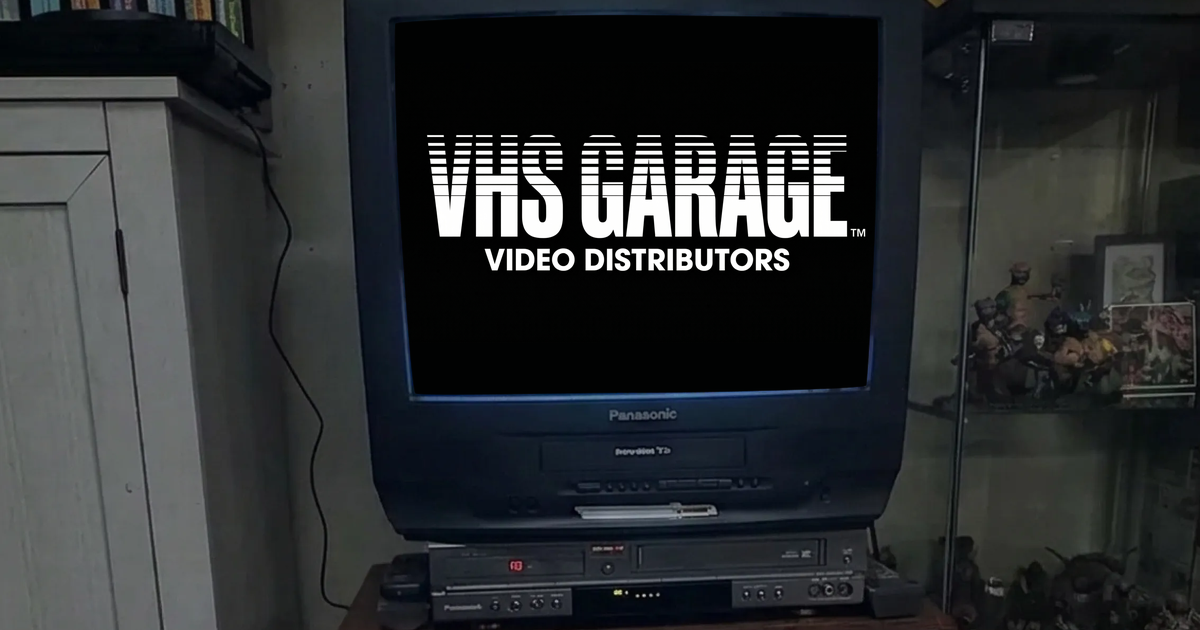
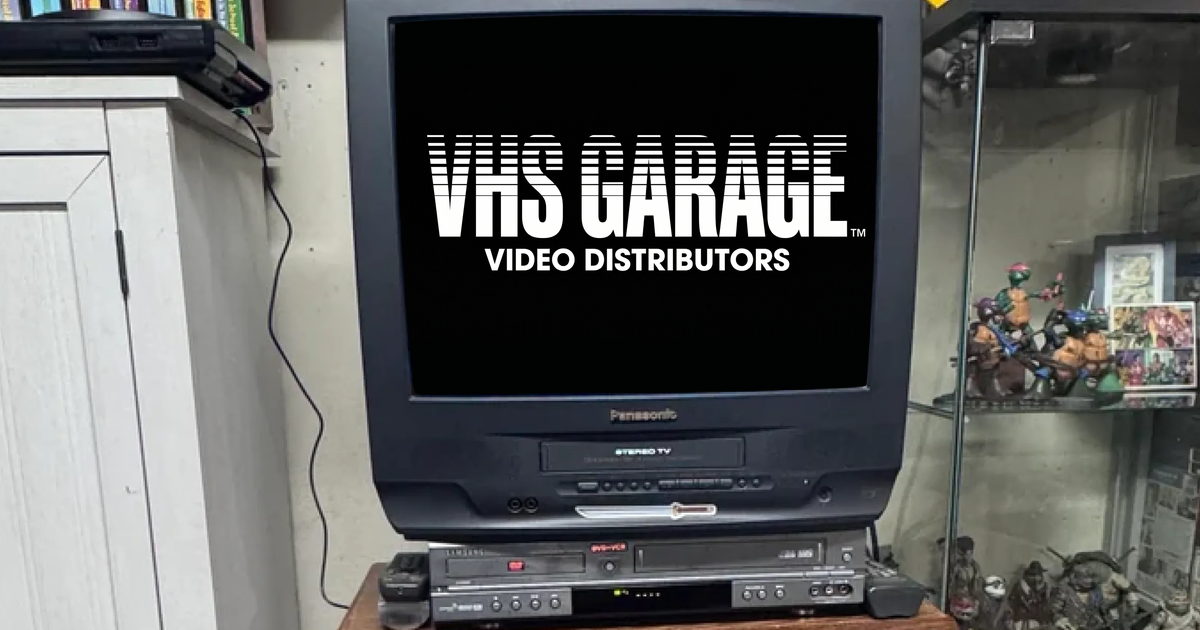
fix: use light garage images for unfurls instead of dark variant

diff --git a/scripts/generate-unfurls.py b/scripts/generate-unfurls.py
@@ -33,7 +33,7 @@ OUT_DIR.mkdir(parents=True, exist_ok=True)
 
 for g in garages:
     gid = g['id']
-    dark_path = PUBLIC / g['images']['dark'].lstrip('/')
+    dark_path = PUBLIC / g['images']['light'].lstrip('/')
 
     if not dark_path.exists():
         print(f'  SKIP {gid}: {dark_path} not found')
